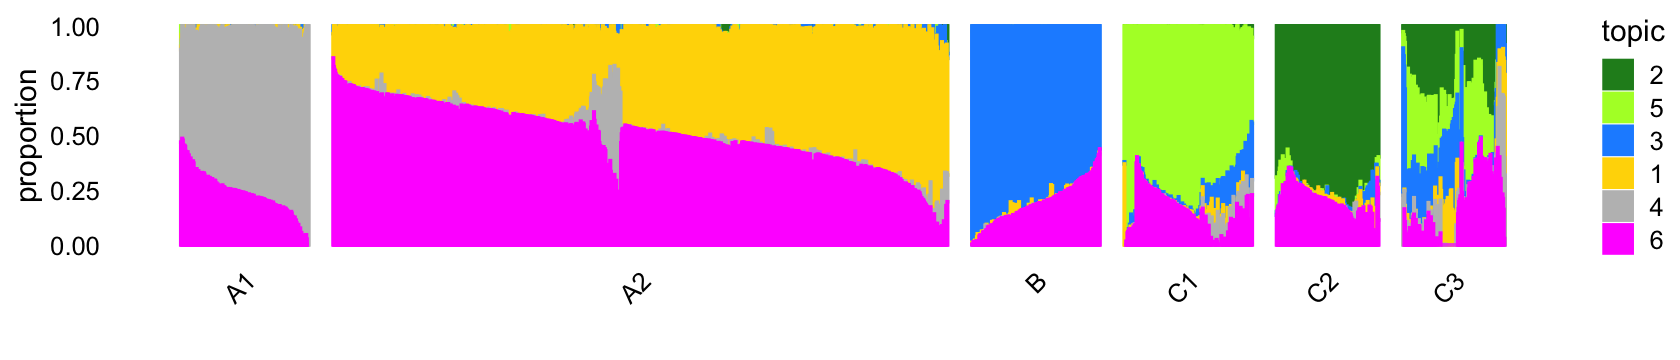
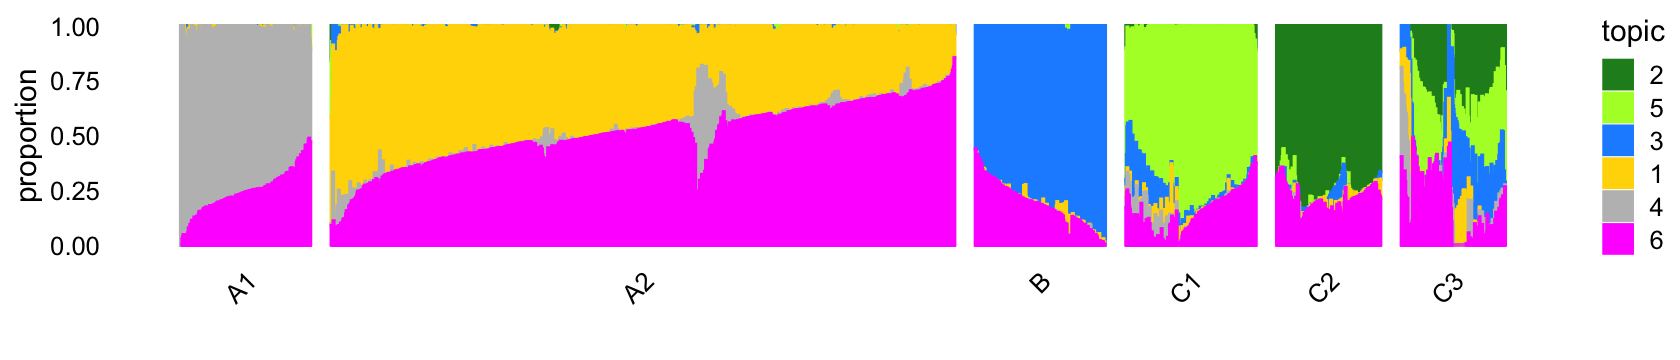
Revised the cross-tab plot, and added notes to plots_pbmc analysis.

diff --git a/docs/plots_pbmc.html b/docs/plots_pbmc.html
@@ -412,16 +412,16 @@ This reproducible <a href="http://rmarkdown.rstudio.com">R Markdown</a> analysis
 <div class="panel panel-default">
 <div class="panel-heading">
 <p class="panel-title">
-<a data-toggle="collapse" data-parent="#workflowr-checks" href="#strongRepositoryversionstrongahrefhttpsgithubcomstephenslabsinglecelltopicstree45c3c322b79cc885c82b3411ba56c91d41062956targetblank45c3c32a"> <span class="glyphicon glyphicon-ok text-success" aria-hidden="true"></span> <strong>Repository version:</strong> <a href="https://github.com/stephenslab/single-cell-topics/tree/45c3c322b79cc885c82b3411ba56c91d41062956" target="_blank">45c3c32</a> </a>
+<a data-toggle="collapse" data-parent="#workflowr-checks" href="#strongRepositoryversionstrongahrefhttpsgithubcomstephenslabsinglecelltopicstreee8971d86164615e8337d2690a577bb3e6d465acdtargetblanke8971d8a"> <span class="glyphicon glyphicon-ok text-success" aria-hidden="true"></span> <strong>Repository version:</strong> <a href="https://github.com/stephenslab/single-cell-topics/tree/e8971d86164615e8337d2690a577bb3e6d465acd" target="_blank">e8971d8</a> </a>
 </p>
 </div>
[2 lines of base64/hex data omitted]
 <div class="panel-body">
 <p>
 Great! You are using Git for version control. Tracking code development and connecting the code version to the results is critical for reproducibility.
 </p>
 <p>
-The results in this page were generated with repository version <a href="https://github.com/stephenslab/single-cell-topics/tree/45c3c322b79cc885c82b3411ba56c91d41062956" target="_blank">45c3c32</a>. See the <em>Past versions</em> tab to see a history of the changes made to the R Markdown and HTML files.
+The results in this page were generated with repository version <a href="https://github.com/stephenslab/single-cell-topics/tree/e8971d86164615e8337d2690a577bb3e6d465acd" target="_blank">e8971d8</a>. See the <em>Past versions</em> tab to see a history of the changes made to the R Markdown and HTML files.
 </p>
 <p>
 Note that you need to be careful to ensure that all relevant files for the analysis have been committed to Git prior to generating the results (you can use <code>wflow_publish</code> or <code>wflow_git_commit</code>). workflowr only checks the R Markdown file, but you know if there are other scripts or data files that it depends on. Below is the status of the Git repository when the results were generated:
@@ -478,6 +478,74 @@ Message
 </tr>
 </thead>
 <tbody>
+<tr>
+<td>
+Rmd
+</td>
+<td>
+<a href="https://github.com/stephenslab/single-cell-topics/blob/e8971d86164615e8337d2690a577bb3e6d465acd/analysis/plots_pbmc.Rmd" target="_blank">e8971d8</a>
+</td>
+<td>
+Peter Carbonetto
+</td>
+<td>
+2020-08-25
+</td>
+<td>
+workflowr::wflow_publish(“plots_pbmc.Rmd”)
+</td>
+</tr>
+<tr>
+<td>
+Rmd
+</td>
+<td>
+<a href="https://github.com/stephenslab/single-cell-topics/blob/9d8bb284f6288d09a547d7ee44ffebe47278da1b/analysis/plots_pbmc.Rmd" target="_blank">9d8bb28</a>
+</td>
+<td>
+Peter Carbonetto
+</td>
+<td>
+2020-08-25
+</td>
+<td>
+Revised structure plot in plots_pbmc.
+</td>
+</tr>
+<tr>
+<td>
+Rmd
+</td>
+<td>
+<a href="https://github.com/stephenslab/single-cell-topics/blob/27f6f51e6d680d7ddd529dbe6aad301f941637d2/analysis/plots_pbmc.Rmd" target="_blank">27f6f51</a>
+</td>
+<td>
+Peter Carbonetto
+</td>
+<td>
+2020-08-25
+</td>
+<td>
+A couple small adjustments to the plotting settings in plots_pbmc.
+</td>
+</tr>
+<tr>
+<td>
+html
+</td>
+<td>
+<a href="https://rawcdn.githack.com/stephenslab/single-cell-topics/abb846e9e32e6a27cd74c5d5d0dc0ca2799d60f6/docs/plots_pbmc.html" target="_blank">abb846e</a>
+</td>
+<td>
+Peter Carbonetto
+</td>
+<td>
+2020-08-25
+</td>
+<td>
+Added dotplot to compare clusters vs. cell-types.
+</td>
+</tr>
 <tr>
 <td>
 Rmd
@@ -1250,7 +1318,7 @@ workflowr::wflow_publish(“plots_pbmc.Rmd”)
 </div>
 </div>
 </div>
-<p>Here we closely examine, and compare, the topic modeling results for the two closely related data sets from <a href="https://doi.org/10.1038/ncomms14049">Zheng <em>et al</em> (2017)</a>, the mixture of FACS-purified PBMC data and the “unsorted” 68k PBMC data. The goal is to illustrate how the topic models fitted to these data sets can be used to learn about the structure in the data, identify clusters, and interpret the clusters and topics as “cell types” or “gene programs”.</p>
+<p>Here we closely examine, and compare, the topic modeling results for the two closely related data sets from <a href="https://doi.org/10.1038/ncomms14049">Zheng <em>et al</em> (2017)</a>, the mixture of FACS-purified PBMC data and the “unsorted” 68k PBMC data. The goal is to illustrate how the topic models fitted to these data sets can be used to learn about the structure in the data, including identifying clusters, and interpret the clusters and topics as “cell types” or “gene programs”.</p>
 <p>Load the packages used in the analysis below, as well as additional functions that will be used to generate some of the plots.</p>
 <pre class="r"><code>library(dplyr)
 library(fastTopics)
@@ -1336,6 +1404,7 @@ Peter Carbonetto
 # x
 #     A     B     C 
 # 72614 10439 11602</code></pre>
+<p>Note that other PCs beyond the first two may also sometimes reveal additional clustering, and we will see examples of this in the 68k PBMC data.</p>
 <p>Within cluster C there are two fairly well-defined subclusters (labeled “C1” and “C2”). There are perhaps other, less defined subclusters that are less defined, but in this analysis we focus on the largest, most obvious clusters.</p>
 <pre class="r"><code>rows &lt;- which(samples_purified$cluster == &quot;C&quot;)
 fit  &lt;- select(poisson2multinom(fit_purified),loadings = rows)
@@ -1393,7 +1462,7 @@ Peter Carbonetto
 # x
 #   C1   C2   C3 
 # 7822 2990  790</code></pre>
-<p>Now we turn to cluster A. Within this cluster, there is a large subcluster, which we label as “A1”. (This cluster is much less distinct than the other clusters we have seen so far, and may not show up clearly in this plot—you may need to zoom in on the plot to see the clustering.) Otherwise, there are is obvious additional clustering of the samples within cluster A.</p>
+<p>Now we turn to cluster A. Within this cluster, there is a large subcluster, which we label as “A1”. (This cluster is much less distinct than the other clusters we have seen so far, and may not show up clearly in this plot—you may need to zoom in on the plot to see the clustering.) Otherwise, there is no obvious additional clustering of the samples within cluster A.</p>
 <pre class="r"><code>rows &lt;- which(samples_purified$cluster == &quot;A&quot;)
 fit  &lt;- select(poisson2multinom(fit_purified),loadings = rows)
 pca  &lt;- prcomp(fit$L)$x
@@ -1476,12 +1545,8 @@ p4 &lt;- structure_plot(select(poisson2multinom(fit_purified),loadings = rows),
                      grouping = samples_purified[rows,&quot;cluster&quot;],
                      topics = pbmc_purified_topics,
                      colors = pbmc_purified_topic_colors[pbmc_purified_topics],
+                     n = Inf,perplexity = c(70,100,70,70,50,50),
                      gap = 40,num_threads = 4,verbose = FALSE)
-# Perplexity automatically changed to 69 because original setting of 100 was too large for the number of samples (213)
-# Perplexity automatically changed to 69 because original setting of 100 was too large for the number of samples (213)
-# Perplexity automatically changed to 69 because original setting of 100 was too large for the number of samples (213)
-# Perplexity automatically changed to 55 because original setting of 100 was too large for the number of samples (170)
-# Perplexity automatically changed to 55 because original setting of 100 was too large for the number of samples (170)
 print(p4)</code></pre>
 <p><img src="figure/plots_pbmc.Rmd/pbmc-purified-structure-plot-1.png" width="840" style="display: block; margin: auto;" /></p>
 <p>
@@ -1506,6 +1571,17 @@ Date
 </tr>
 </thead>
 <tbody>
+<tr>
+<td>
+<a href="https://github.com/stephenslab/single-cell-topics/blob/abb846e9e32e6a27cd74c5d5d0dc0ca2799d60f6/docs/figure/plots_pbmc.Rmd/pbmc-purified-structure-plot-1.png" target="_blank">abb846e</a>
+</td>
+<td>
+Peter Carbonetto
+</td>
+<td>
+2020-08-25
+</td>
+</tr>
 <tr>
 <td>
 <a href="https://github.com/stephenslab/single-cell-topics/blob/f53c86ce2e664d45e7e8b7299bfada46ae968f15/docs/figure/plots_pbmc.Rmd/pbmc-purified-structure-plot-1.png" target="_blank">f53c86c</a>
@@ -1598,15 +1674,58 @@ Peter Carbonetto
 </table>
 </div>
 </div>
-<p>Out of the 6 topics, 4 of them (<span class="math inline">\(k = 2, 3, 4, 5\)</span>) align closely with the clusters (labeled A1, B, C1, C2). And, indeed, they align closely with their inclusion in the indivvidual FACS-purified data sets:</p>
+<p>Out of the 6 topics, 4 of them (<span class="math inline">\(k = 2, 3, 4, 5\)</span>) align closely with the clusters (labeled A1, B, C1, C2). And, indeed, they align closely with their inclusion in the individual FACS-purified data sets:</p>
 <pre class="r"><code>pdat &lt;- as.data.frame(with(samples_purified,table(celltype,cluster)))
 ggplot(pdat,aes(x = cluster,y = celltype,size = Freq)) +
   geom_point(color = &quot;dodgerblue&quot;,show.legend = FALSE) +
   ylim(rev(levels(samples_purified$celltype))) +
   theme_cowplot(font_size = 10)</code></pre>
-<p><img src="figure/plots_pbmc.Rmd/pbmc-purified-clusters-vs-celltypes-1.png" width="420" style="display: block; margin: auto;" /></p>
-<p>For example, cluster B corresponds almost perfectly to the B-cell data set, and the largest cluster—cluster A2—is comprised of the T-cell data sets. It is also interesting that many of the samples labeled as “CD34+” are not assigned to the CD34+ cluster (C1), which probably reflects the fact that the this population was much less pure (45%) than the others, and so probably contained other cell types.</p>
-<p>Cluster C3 is a heterogeneous cluster that we do not investigate further. Cluster A2—see also the PCA plot above—is a clear example where topic modeling is more appropriate than clustering because any additional clustering of the data will be arbitrary.</p>
+<p><img src="figure/plots_pbmc.Rmd/pbmc-purified-clusters-vs-celltypes-1.png" width="480" style="display: block; margin: auto;" /></p>
+<p>
+<button type="button" class="btn btn-default btn-xs btn-workflowr btn-workflowr-fig" data-toggle="collapse" data-target="#fig-pbmc-purified-clusters-vs-celltypes-1">
+Past versions of pbmc-purified-clusters-vs-celltypes-1.png
+</button>
+</p>
+<div id="fig-pbmc-purified-clusters-vs-celltypes-1" class="collapse">
+<div class="table-responsive">
+<table class="table table-condensed table-hover">
+<thead>
+<tr>
+<th>
+Version
+</th>
+<th>
+Author
+</th>
+<th>
+Date
+</th>
+</tr>
+</thead>
+<tbody>
+<tr>
+<td>
+<a href="https://github.com/stephenslab/single-cell-topics/blob/abb846e9e32e6a27cd74c5d5d0dc0ca2799d60f6/docs/figure/plots_pbmc.Rmd/pbmc-purified-clusters-vs-celltypes-1.png" target="_blank">abb846e</a>
+</td>
+<td>
+Peter Carbonetto
+</td>
+<td>
+2020-08-25
+</td>
+</tr>
+</tbody>
+</table>
+</div>
+</div>
+<p>Based on the above results, we make a few observations:</p>
+<ul>
+<li><p>Because they correspond very closely, subsequent analysis of topics 2, 3, 4 and 5 should yield similar results to analyzing the clusters A1, B, C1, C2 For example, cluster B corresponds almost perfectly to the B-cell data set. The largest cluster, cluster A2, is mostly comprised of the T-cell data sets.</p></li>
+<li><p>Cluster A2—see also the PCA plot above—is an example where analyzing the most prevalent topics (<span class="math inline">\(k = 1, 6\)</span>) will yield <em>different</em> results than analyzing clusters within cluster A1 as any additional clustering of the data will be necessarily arbitrary (see the PCA plot above).</p></li>
+<li><p>Many samples labeled as “CD34+” are not assigned to the CD34+ cluster (C1). This is probably due to the fact that this population was much less pure (45%) than the others.</p></li>
+<li><p>Cluster C3 is a heterogeneous cluster with a relatively small number of samples (790) that could potentially contain additional clusters of biological relevance, but will likely be more challenging to analyze and interpret than the other clusters, so we do not this investigate further.</p></li>
+</ul>
+<p>In summary, a cluster-based analysis and topic-based analysis should yield mostly similar results, except for the analysis of cluster A2, which should benefit from a topic-based analysis (specifically, analysis of topics 1 and 6).</p>
 </div>
 <div id="unsorted-68k-pbmc-data" class="section level2">
 <h2>Unsorted 68k PBMC data</h2>
@@ -1910,6 +2029,17 @@ Date
 <tbody>
 <tr>
 <td>
+<a href="https://github.com/stephenslab/single-cell-topics/blob/abb846e9e32e6a27cd74c5d5d0dc0ca2799d60f6/docs/figure/plots_pbmc.Rmd/pbmc-68k-structure-plot-1.png" target="_blank">abb846e</a>
+</td>
+<td>
+Peter Carbonetto
+</td>
+<td>
+2020-08-25
+</td>
+</tr>
+<tr>
+<td>
 <a href="https://github.com/stephenslab/single-cell-topics/blob/f53c86ce2e664d45e7e8b7299bfada46ae968f15/docs/figure/plots_pbmc.Rmd/pbmc-68k-structure-plot-1.png" target="_blank">f53c86c</a>
 </td>
 <td>
@@ -2005,7 +2135,7 @@ Peter Carbonetto
 # [1] stats     graphics  grDevices utils     datasets  methods   base     
 # 
 # other attached packages:
-# [1] cowplot_1.0.0      ggplot2_3.3.0      fastTopics_0.3-164 dplyr_0.8.3       
+# [1] cowplot_1.0.0      ggplot2_3.3.0      fastTopics_0.3-165 dplyr_0.8.3       
 # 
 # loaded via a namespace (and not attached):
 #  [1] ggrepel_0.9.0        Rcpp_1.0.5           lattice_0.20-38     
